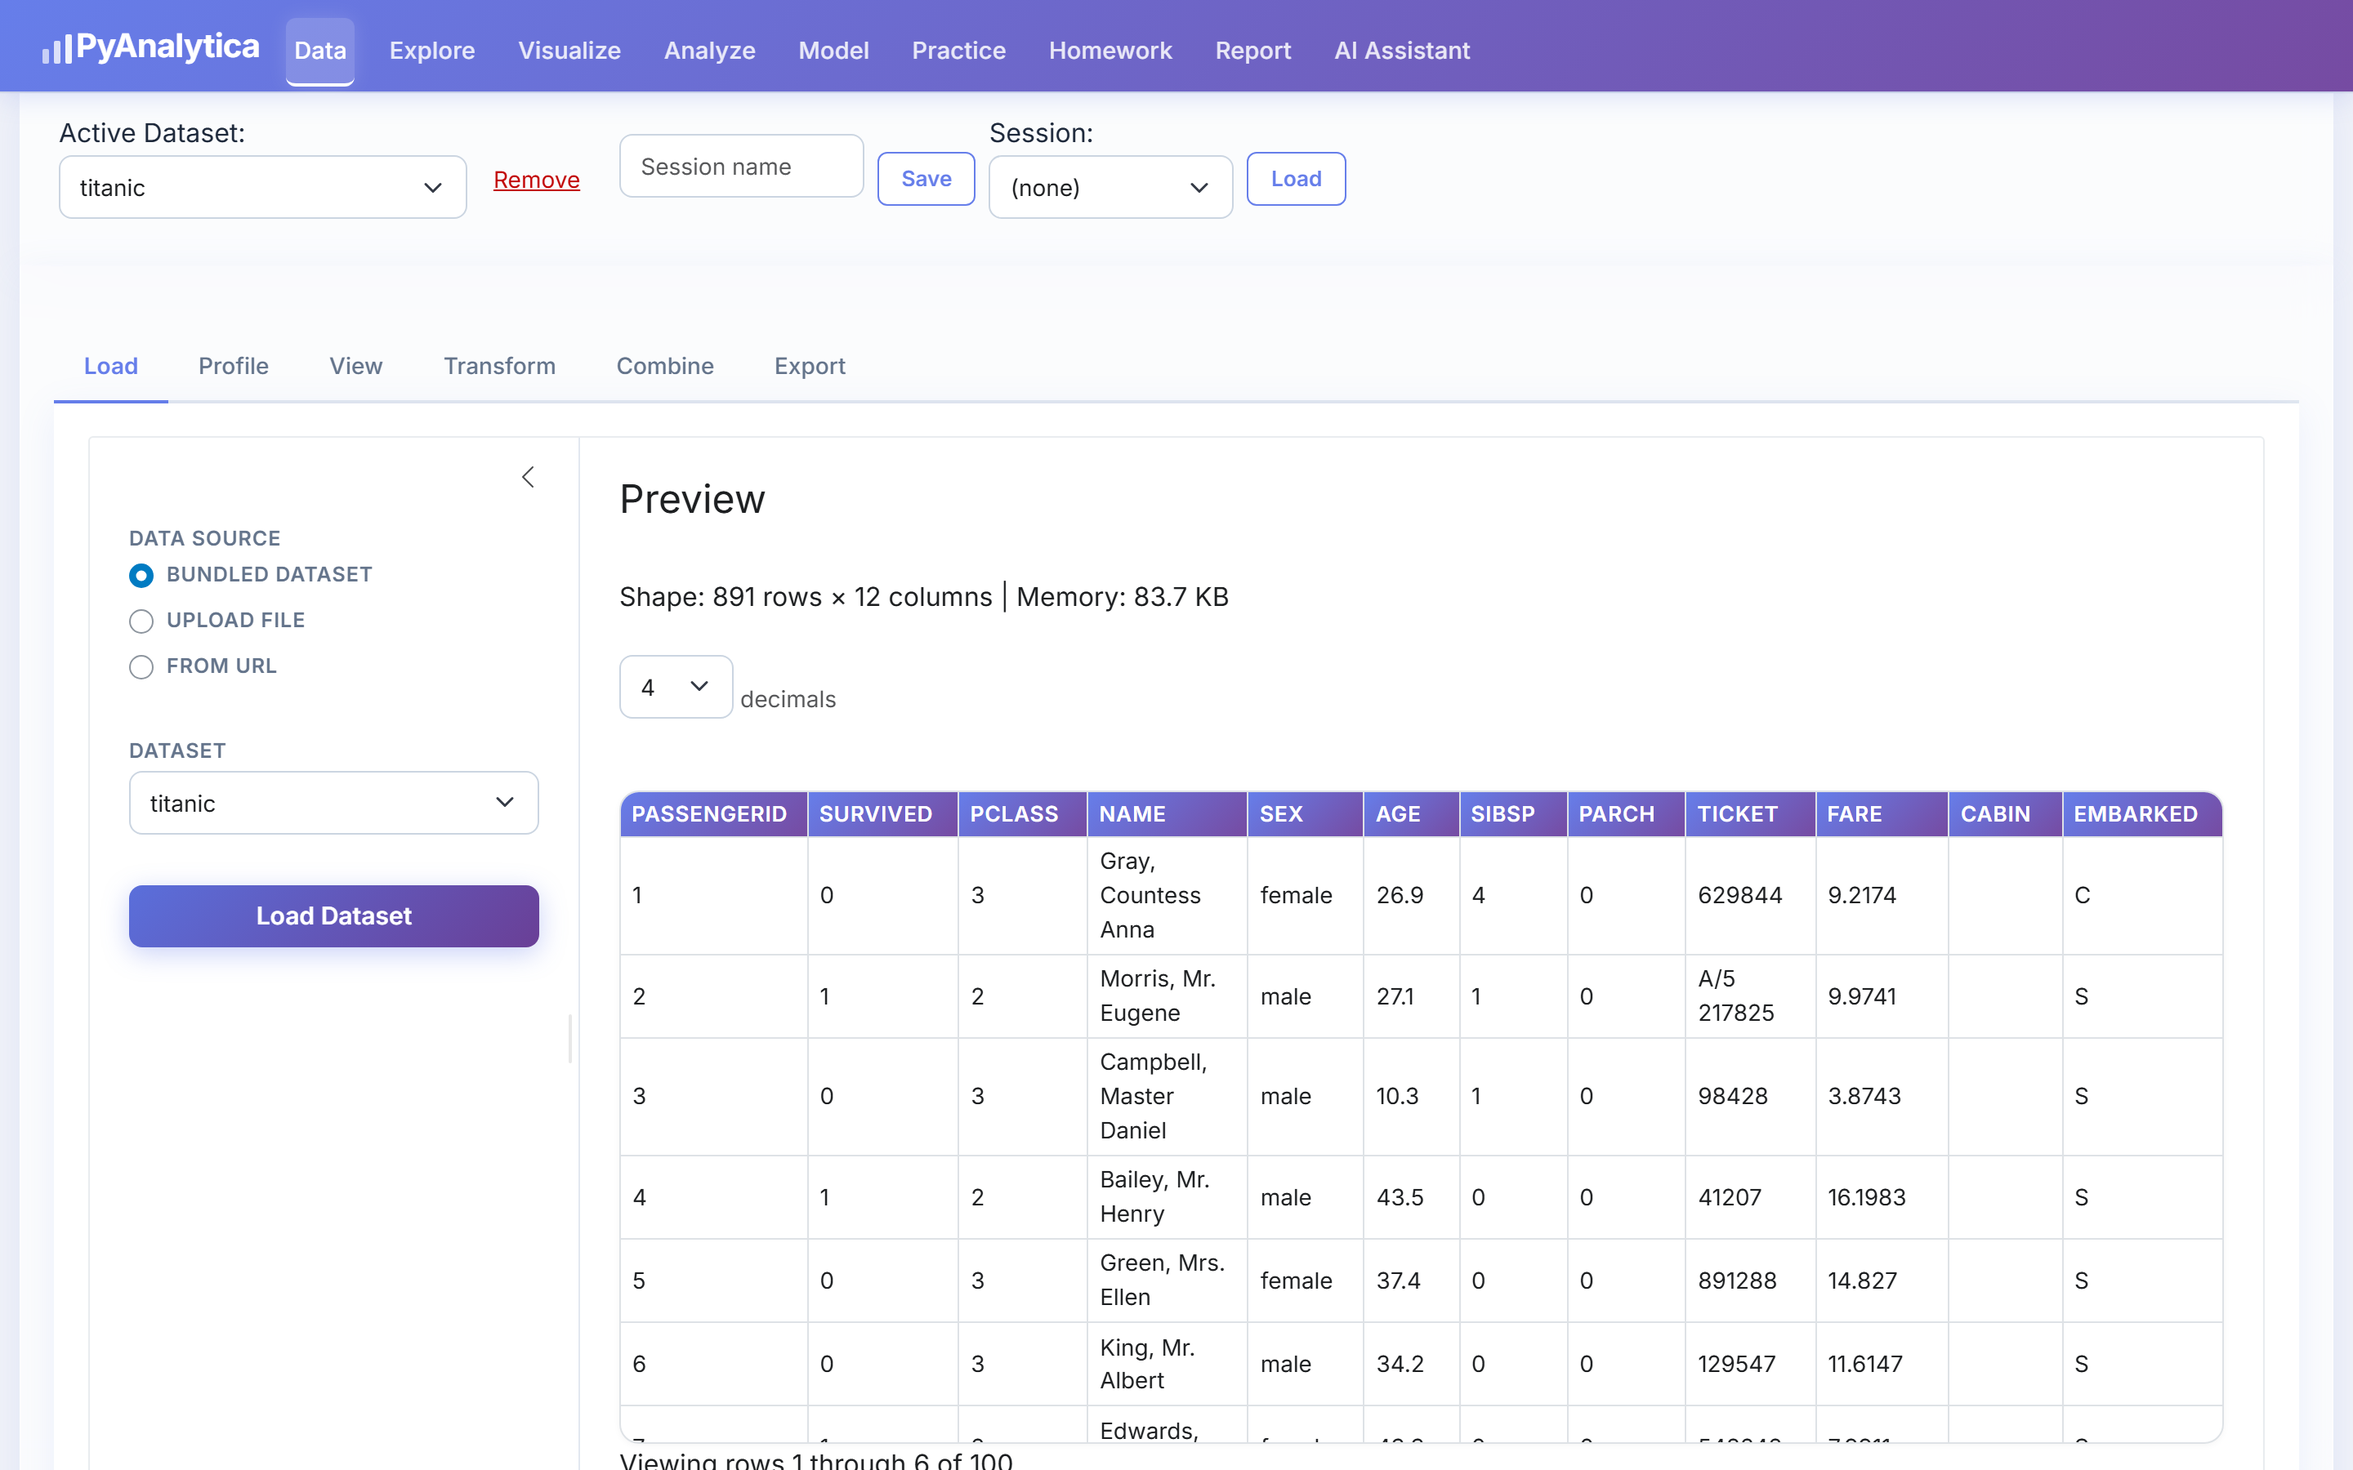
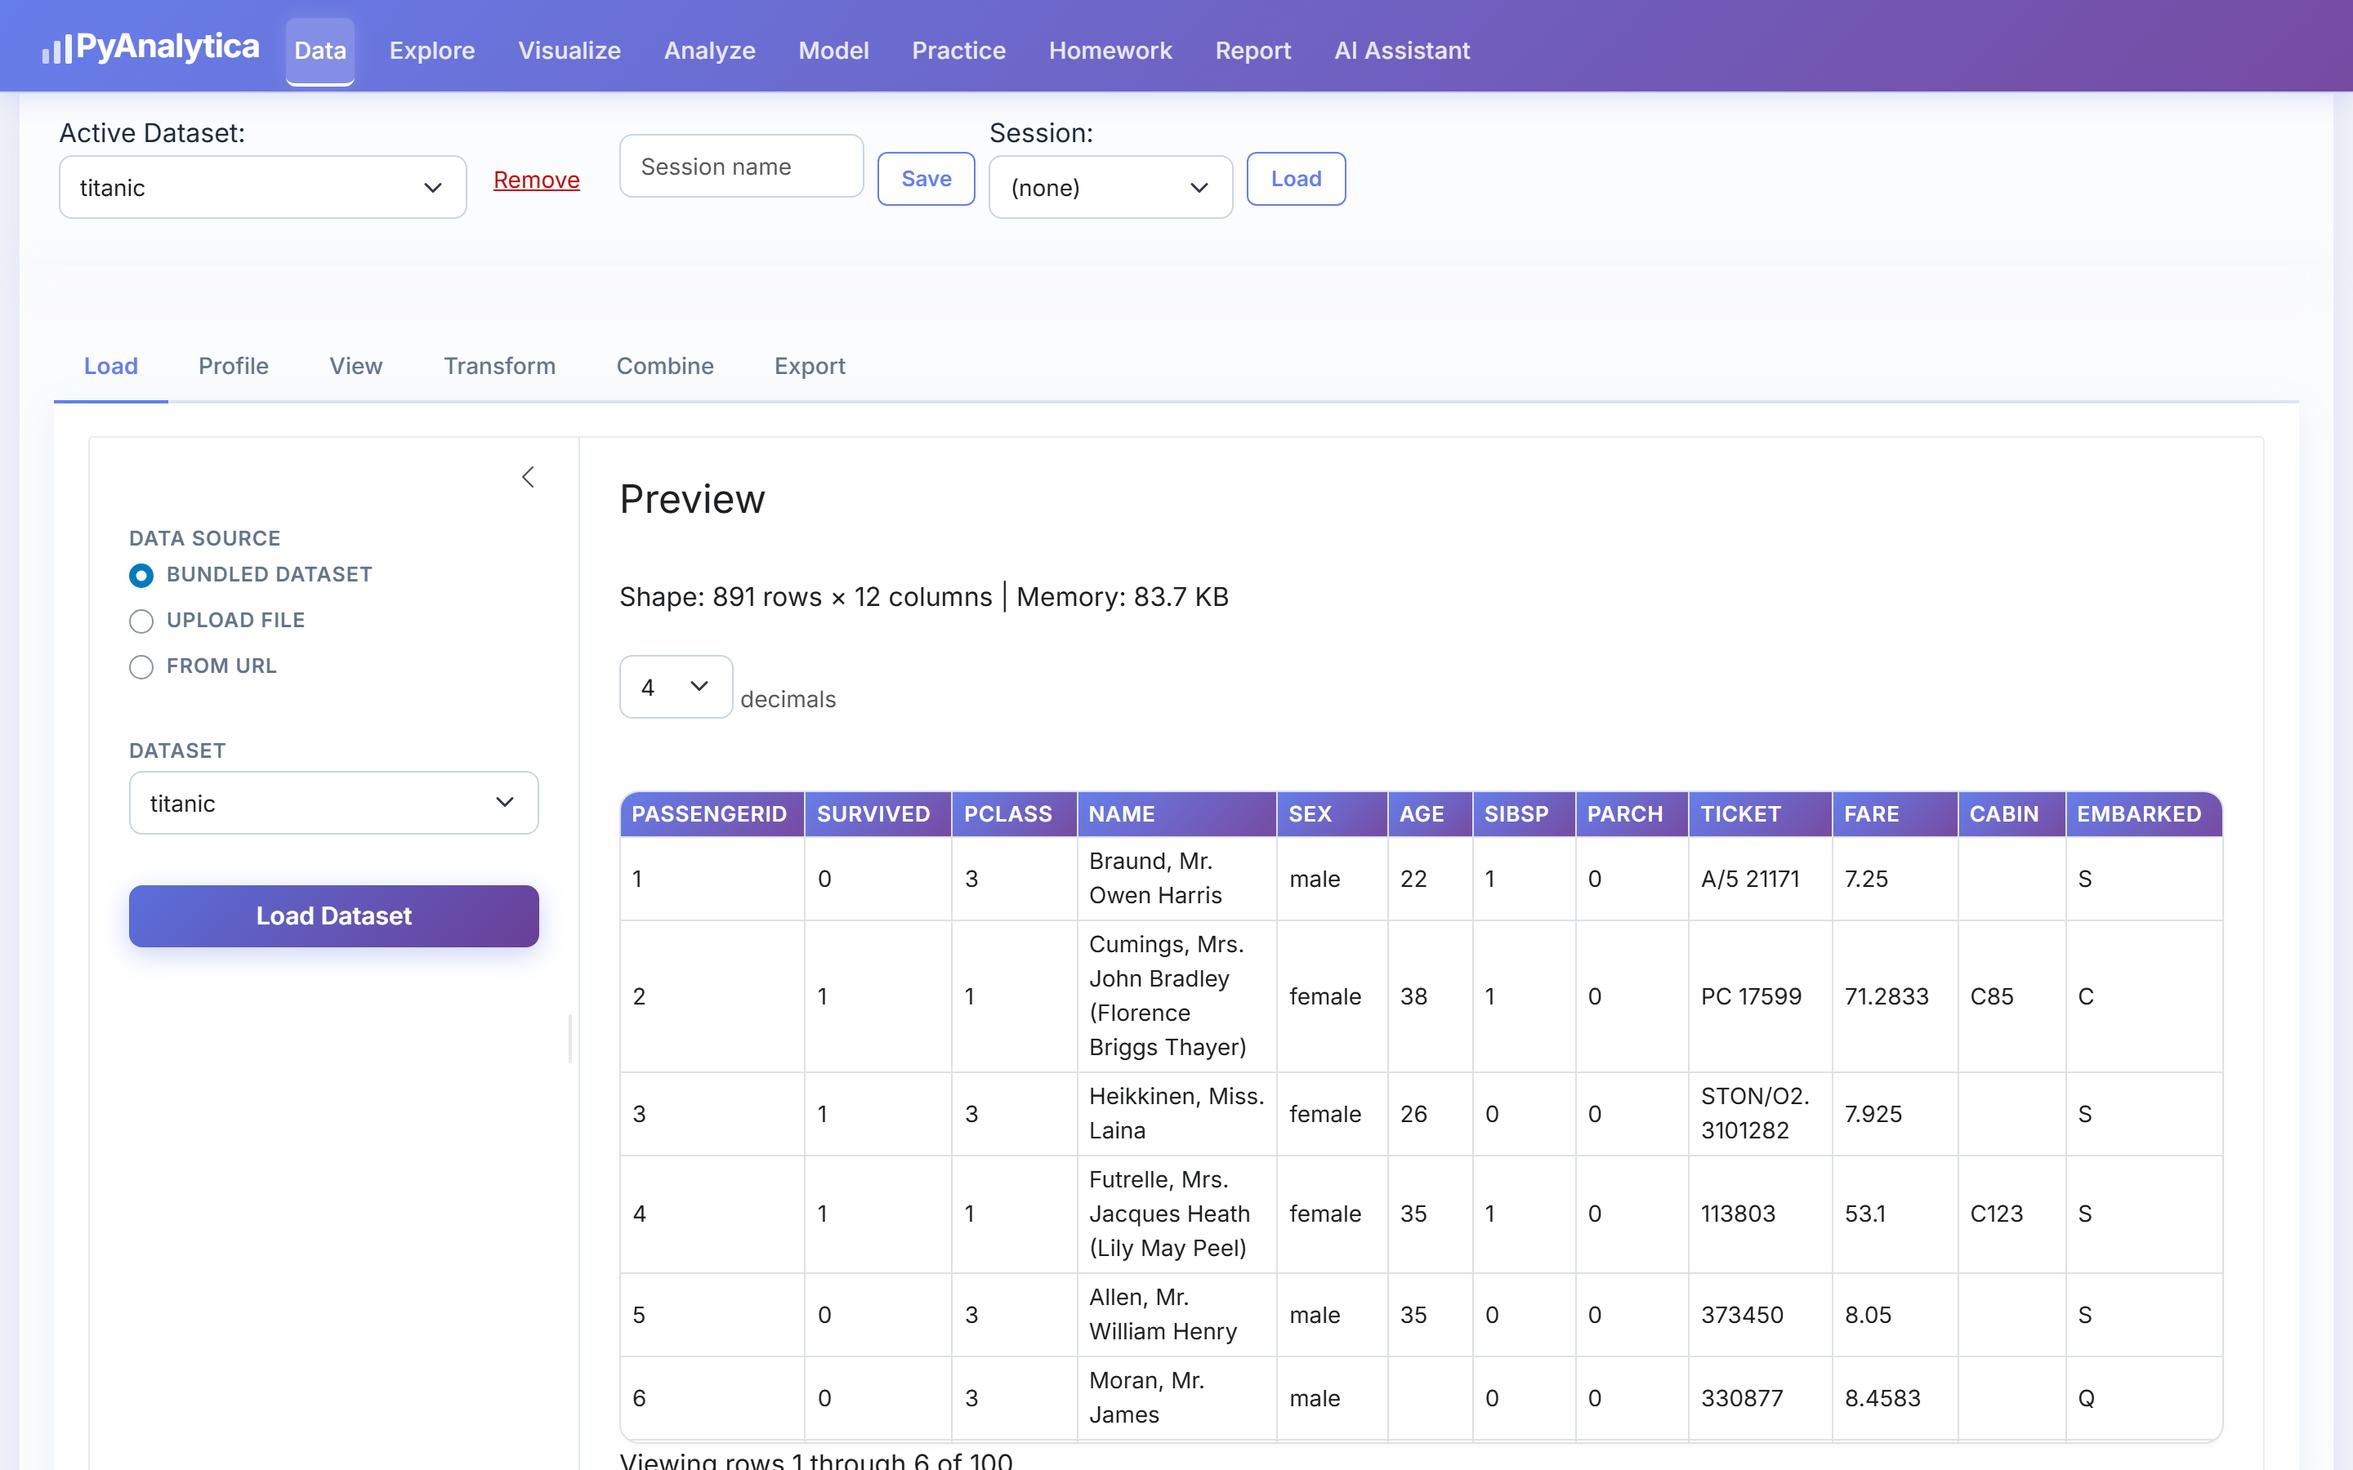
Release 0.9.0
Three things a student will notice: the bundled datasets are the real
ones, every panel shows its answer before its supporting material, and
Model > Evaluate works on a regression.

The version is 0.9.0 rather than the 0.8.1 the fixes alone would have
warranted. A patch number says you will not notice, and seven panels
moved their contents.

Evaluate lost its second results table on the way: with a confusion matrix
and a regression summary as separate outputs it rendered five things
unconditionally where the disclosure rule allows four, and the lint said
so. Two mutually exclusive tables are one slot whose content follows the
model, which is what they should have been. The download is named after
whichever it holds rather than calling a table of regression error a
confusion matrix.

The README screenshots are recaptured: the panels look different and the
numbers in them are real. The Evaluate shot now shows a 0.5860 baseline
from the actual Titanic rather than a figure from data that never existed.

1067 unit tests.

Claude-Session: https://claude.ai/code/session_01AHfmTf3fk7bqMo1d74DCaK

diff --git a/src/pyanalytica/ui/modules/model/mod_evaluate.py b/src/pyanalytica/ui/modules/model/mod_evaluate.py
@@ -44,23 +44,14 @@ def evaluate_ui():
         # kind of model; the panel used to assume classification and hand a
         # regression to sklearn, which answered "continuous is not supported".
         ui.output_ui("metrics_summary"),
-        ui.output_ui("cm_heading"),
-        ui.output_data_frame("cm_table"),
-        ui.output_data_frame("regression_table"),
+        ui.output_ui("results_heading"),
+        ui.output_data_frame("results_table"),
         download_result_ui("dl"),
-        # Tier 2 -- whichever of these the model has.
-        supporting(
-            "ROC curve",
-            ui.output_plot("roc_plot", height=PLOT_HEIGHT),
-        ),
-        supporting(
-            "Predicted vs actual",
-            ui.output_plot("pred_vs_actual", height=PLOT_HEIGHT),
-        ),
-        supporting(
-            "Residuals",
-            ui.output_plot("resid_plot", height=PLOT_HEIGHT),
-        ),
+        # Tier 2 -- whichever of these the model has. Rendered rather than
+        # laid out, because a classification has no residual plot and a
+        # regression has no ROC curve: offering a section that opens onto
+        # nothing is the same fault as a heading over an empty table.
+        ui.output_ui("extras"),
         code_panel_ui("code"),
     )
 
@@ -225,17 +216,37 @@ def evaluate_server(input, output, session, state: WorkbenchState, get_current_d
         )
 
     @render.ui
-    def cm_heading():
+    def results_heading():
         # This heading used to be static, so a failed evaluation left
         # "Confusion Matrix" standing over an empty page.
+        if reg_result() is not None:
+            return ui.h5("How far the predictions were off")
         req(eval_result() is not None)
         return ui.h5("Confusion Matrix")
 
-    @render.data_frame
-    def regression_table():
-        r = reg_result()
+    @render.ui
+    def extras():
+        if reg_result() is not None:
+            return ui.div(
+                supporting(
+                    "Predicted vs actual",
+                    ui.output_plot("pred_vs_actual", height=PLOT_HEIGHT),
+                ),
+                supporting(
+                    "Residuals",
+                    ui.output_plot("resid_plot", height=PLOT_HEIGHT),
+                ),
+            )
+        r = eval_result()
         req(r is not None)
-        return render.DataGrid(r.summary)
+        if r.roc_curve_plot is None:
+            # No ROC for a multiclass target, so do not offer one.
+            return ui.div()
+        return supporting(
+            "ROC curve",
+            ui.output_plot("roc_plot", height=PLOT_HEIGHT),
+        )
+
 
     @render.plot
     def pred_vs_actual():
@@ -250,7 +261,10 @@ def evaluate_server(input, output, session, state: WorkbenchState, get_current_d
         return r.residual_plot
 
     @render.data_frame
-    def cm_table():
+    def results_table():
+        reg = reg_result()
+        if reg is not None:
+            return render.DataGrid(reg.summary)
         r = eval_result()
         req(r is not None)
         return render.DataGrid(r.confusion_matrix.reset_index())
@@ -267,6 +281,8 @@ def evaluate_server(input, output, session, state: WorkbenchState, get_current_d
             reg_result().summary if reg_result() is not None
             else eval_result().confusion_matrix.reset_index()
         ),
-        filename="confusion_matrix",
+        filename=lambda: (
+            "regression_error" if reg_result() is not None else "confusion_matrix"
+        ),
     )
     code_panel_server("code", get_code=last_code)

diff --git a/tests/test_e2e_evaluate.py b/tests/test_e2e_evaluate.py
@@ -179,6 +179,26 @@ class TestEvaluateThreshold:
             f"got {recall(at_half)} at 0.5 and {recall(at_nine)} at 0.9"
         )
 
+    def test_t12_no_regression_sections_are_offered_for_a_classifier(self, page: Page):
+        """And none of the classifier's for a regression, checked in t11's class.
+
+        A section that opens onto nothing is the same fault as a heading over an
+        empty table, one click further in.
+        """
+        # The classifier fitted in t01 is still the selection here; it is saved
+        # under a generated name, so take whatever is chosen rather than
+        # guessing one.
+        _nav_to(page, "Model", "Evaluate")
+        _wait_stable(page, 2000)
+        _click_button(page, _sid("evaluate", "run_btn"))
+        _wait_stable(page, 6000)
+
+        body = page.locator("body").inner_text()
+        assert "ROC curve" in body
+        assert "Predicted vs actual" not in body
+        assert "Residuals" not in body
+
+
 class TestEvaluatingARegression:
     """Model > Evaluate used to hand a regression to sklearn's classification
     metrics, which answered "continuous is not supported" -- a message naming a
@@ -221,7 +241,7 @@ class TestEvaluatingARegression:
         assert "continuous is not supported" not in page.locator("body").inner_text()
 
     def test_t09_the_measures_are_the_ones_that_mean_something(self, page: Page):
-        table = page.locator(_sid("evaluate", "regression_table"))
+        table = page.locator(_sid("evaluate", "results_table"))
         expect(table).to_be_visible(timeout=20_000)
         body = table.inner_text().upper()
         for measure in ("RMSE", "MAE", "ROWS"):

diff --git a/src/pyanalytica/ui/components/download_result.py b/src/pyanalytica/ui/components/download_result.py
@@ -21,9 +21,16 @@ def download_result_server(
     output,
     session,
     get_df: Callable,
-    filename: str = "result",
+    filename: str | Callable[[], str] = "result",
 ):
-    @render_download(filename=lambda: f"{filename}.csv")
+    """*filename* may be a callable, for a panel whose download changes with
+    what it is showing -- Evaluate saves a confusion matrix or a table of
+    regression error depending on the model, and naming both after the first
+    would mislabel half of them."""
+
+    @render_download(
+        filename=lambda: f"{filename() if callable(filename) else filename}.csv"
+    )
     def dl_btn():
         df = get_df()
         req(df is not None)

diff --git a/src/pyanalytica/__init__.py b/src/pyanalytica/__init__.py
@@ -19,7 +19,7 @@ Quick start (library)::
     fig, code = histogram(df, "total_bill")
 """
 
-__version__ = "0.8.0"
+__version__ = "0.9.0"
 
 # Core types
 from pyanalytica.core.codegen import CodeSnippet

diff --git a/CHANGELOG.md b/CHANGELOG.md
@@ -5,6 +5,88 @@ All notable changes to this project will be documented in this file.
 The format is based on [Keep a Changelog](https://keepachangelog.com/en/1.1.0/),
 and this project adheres to [Semantic Versioning](https://semver.org/spec/v2.0.0.html).
 
+## [0.9.0] - 2026-09-08
+
+Three changes a student will notice: the bundled datasets are the real ones,
+every panel shows its answer before its supporting material, and Model >
+Evaluate works on a regression.
+
+### The bundled datasets are real now
+
+`titanic`, `tips` and `diamonds` were all **simulated** -- generated from
+distributions chosen to give the right shape, then written to files named after
+the well-known originals, with nothing anywhere saying so.
+
+| | Shipped | Actual |
+|---|---|---|
+| Titanic survivors | 438 (49.2%) | 342 (38.4%) |
+| Female survival rate | 69.6% | 74.2% |
+| Mean tip | 3.98 | 3.00 |
+| Mean diamond price | 2361.73 | 3932.80 |
+
+The Titanic is the sharpest case: it is the one dataset everybody already knows
+something about, so a student who remembered the story or looked up the
+survival rate got a different answer from the tool with no explanation
+available. The arithmetic had been right the whole time, on data that was not
+what its name promised.
+
+The real data ships instead, each with a `SOURCE.md` giving figures to check it
+against. `generate.py` no longer produces them. See `docs/DATASETS.md`.
+
+The bundled Practice drills were re-answered against the real data, and their
+explanations -- which quoted the old numbers and which nothing checked -- are
+corrected.
+
+### Panels show the answer first
+
+Every panel used to render everything it could compute: 103 outputs and 18
+plots across 30 panels, against eight uses of a collapsible container in the
+whole app. Model > Regression answered "what are the coefficients" and then,
+unasked, drew VIF, residuals and a Q-Q plot, so on a laptop the coefficients
+were the only part above the fold.
+
+Seven panels now follow one rule -- the answer is on screen, the supporting
+numbers and the diagnostics are offered by name. Nothing in a closed section is
+drawn until it is opened. See `docs/DISCLOSURE.md` for the tiering of each.
+
+Headings moved inside the sections they name. A static heading sits in the
+layout whether or not its content rendered, which is how a failed evaluation
+came to show "Confusion Matrix" over an empty page.
+
+### Model > Evaluate handles a regression
+
+Choosing a saved regression gave `continuous is not supported` -- scikit-learn's
+phrase for a target type -- under a Confusion Matrix heading. It now reports
+R-squared, RMSE and MAE in the units of the target, with predicted-vs-actual
+and residual plots, and offers only the sections the model actually has.
+
+### Also fixed
+
+- **Pivot and Cross-tab say what their numbers are.** A table of 32.2581 /
+  67.7419 / 100 was percentages or counts depending on a sidebar dropdown, with
+  nothing in the output saying which. The caption names the reading and the base
+  each percentage is taken over -- and says so honestly when Normalize was
+  ignored, which happens for any aggregation other than a count.
+- **Goodness-of-fit tests state their null hypothesis**, and a high p-value
+  reads as "no evidence against" rather than "good fit", which was the
+  misinterpretation the panel exists to correct.
+- **An invalid normality test is gone.** The CLT panel ran a Kolmogorov-Smirnov
+  test against a normal fitted to the same sample -- the Lilliefors situation,
+  where the p-value comes out far too large. Over 3000 replications it rejected
+  0.0% of the time where 5% is correct, and it called gamma data "consistent
+  with normal" at p = 0.116 while Shapiro-Wilk gave 6e-08 on the same sample.
+- **Plot titles survive being resized.** Figures are built at 8x5 inches and
+  re-rendered at whatever the panel gives them; a one-shot `tight_layout()`
+  freezes margins computed for the original height and leaves ~4px above the
+  title, which clips on some screens and not others. All 33 real calls became
+  layout engines, which recompute on every draw.
+
+### Tests
+
+1067 unit tests, up from 1001. Three new classes of check: that every rendered
+control is read, that a panel does not draw a second plot unasked, and that a
+figure keeps its headroom after a resize.
+
 ## [0.8.0] - 2026-09-08
 
 Ten defects, found by finishing the QA sweep across Model, the Data tab,

diff --git a/README.md b/README.md
@@ -6,9 +6,9 @@
 
 [![Python](https://img.shields.io/badge/python-%3E%3D3.10-3776ab?logo=python&logoColor=white)](https://python.org)
 [![License: MIT](https://img.shields.io/badge/license-MIT-green.svg)](LICENSE)
-[![Version](https://img.shields.io/badge/version-0.8.0-667eea.svg)](https://pypi.org/project/pyanalytica/)
+[![Version](https://img.shields.io/badge/version-0.9.0-667eea.svg)](https://pypi.org/project/pyanalytica/)
 [![Shiny](https://img.shields.io/badge/built%20with-Shiny%20for%20Python-764ba2.svg)](https://shiny.posit.co/py/)
-[![Tests](https://img.shields.io/badge/tests-1001%20passing-22c55e.svg)]()
+[![Tests](https://img.shields.io/badge/tests-1067%20passing-22c55e.svg)]()
 
 *Interactive data exploration, visualization, statistical analysis, and machine learning — with a "Show Code" button that reveals the pandas & sklearn code behind every operation.*
 

diff --git a/docs/INSTALL.md b/docs/INSTALL.md
@@ -60,7 +60,7 @@ After the last command your prompt starts with `(.venv)`. **That prefix means th
 
 ```
 python -m pip install --upgrade pip
-pip install pyanalytica==0.8.0
+pip install pyanalytica==0.9.0
 ```
 
 The first command prevents a family of confusing installation errors. The second downloads roughly 100 MB and takes a few minutes.
@@ -169,7 +169,7 @@ After the last command your prompt starts with `(.venv)`. That prefix means the 
 
 ```bash
 python -m pip install --upgrade pip
-pip install pyanalytica==0.8.0
+pip install pyanalytica==0.9.0
 ```
 
 ### Step 6 — Start it
@@ -272,7 +272,7 @@ First, confirm the version. With the environment active:
 pyanalytica --version
 ```
 
-It should print `pyanalytica 0.8.0`.
+It should print `pyanalytica 0.9.0`.
 
 Then, with the app open in your browser:
 
